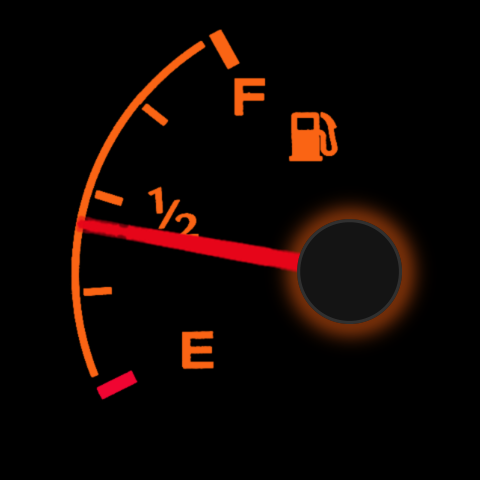
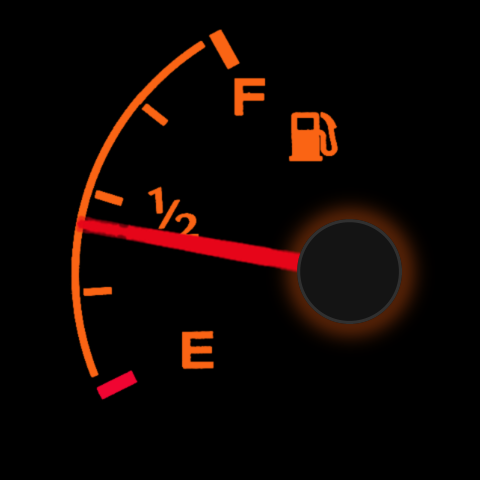
Night halo brightness -30% (peak opacity 0.315)

Changed region(s): [[0.5938, 0.4375, 0.875, 0.7188]]

diff --git a/docs/PLAN.md b/docs/PLAN.md
@@ -23,7 +23,7 @@ Status: Phase 0 (discovery). Prepared 2026-10-12. Rev 2: decisions log added (se
 | 2026-10-14 | The cluster can't be scanned non-destructively. v2 faces and overlay rebuilt from needle-free photos with geometric rectification (section 4.2d). |
 | 2026-10-14 | Frame leveled: rotated 2.17° CCW. Printed text (RPMX1000, FUEL DOOR, MPH, km/h, TYPE AC, MI) measured 2.05–2.30° clockwise; it now reads 0.0°. Dial sweeps are within 0.5° of symmetric about vertical. Tach 0 tick rebuilt from the 1000 rpm tick (the knob post hid its end); the stop-pin mask by the 8 was tightened. |
 | 2026-10-14 | Odometer goes digital (owner): the drum module is too large to keep (rear photos IMG_7579/7580/7582). Odometer is drawn in the bottom of the speedo face, trip meter where FUEL DOOR is printed on the tach. Exact stock text placement is not required. Speedo must stay stock size; the tach may shrink slightly. The white rear body will be trimmed to take the screens. |
-| 2026-10-14 | Night mode (owner, revised): palette from the owner's stock-cluster night photo, stored in `art/night_palette.json`. White printing becomes orange RGB 250,100,20. The km/h scale and cold tick become blue 20,170,240. Needle-orange ticks and digits (tach 6500+, 7, 8, H tick, E tick) become red 240,5,50. Needles become red 230,5,25, replacing the earlier "needles unchanged". Applies to all four gauges. A slight hub halo (owner wants it even though stock has none): printing orange, from the hub edge to 1.65 hub radii (half the earlier width), peak opacity 0.45. Implementation: per-color A8 mask layers recolored at runtime. Preview: `tools/night/night_preview.py` -> `art/preview/night_mode_preview.png`, `art/preview/*_480_night.png`. The colors come from a compressed video frame with unknown white balance, so they are a starting point to tune on the real screens. |
+| 2026-10-14 | Night mode (owner, revised): palette from the owner's stock-cluster night photo, stored in `art/night_palette.json`. White printing becomes orange RGB 250,100,20. The km/h scale and cold tick become blue 20,170,240. Needle-orange ticks and digits (tach 6500+, 7, 8, H tick, E tick) become red 240,5,50. Needles become red 230,5,25, replacing the earlier "needles unchanged". Applies to all four gauges. A slight hub halo (owner wants it even though stock has none): printing orange, from the hub edge to 1.65 hub radii (half the earlier width), peak opacity 0.315 (30% below the earlier 0.45). Implementation: per-color A8 mask layers recolored at runtime. Preview: `tools/night/night_preview.py` -> `art/preview/night_mode_preview.png`, `art/preview/*_480_night.png`. The colors come from a compressed video frame with unknown white balance, so they are a starting point to tune on the real screens. |
 | 2026-10-14 | Owner: the cluster housing may be trimmed (there is clearance around the installed cluster). Only the visible areas must stay on the face. Owner prefers the off-the-shelf 86% speedo. Proposed off-the-shelf layout (`docs/layout/screen_layout_v3.png`, `tools/screen_layout_v3.py`): speedo Waveshare ESP32-P4-WIFI6-Touch-LCD-3.4C (115 x 115 mm, Ø87.6 visible, art at 0.86); tach 2.8" round ESP32-S3 board (Waveshare 2.8C or LilyGO T-RGB, Ø70.1 visible, art at 0.887); temp+fuel Waveshare ESP32-S3-Touch-LCD-5 (127.7 x 87.45 mm, full-size art). Speedo and tach move 6 mm right, temp/fuel 7 mm left; boards are 1.2–1.4 mm apart; all visible holes are 3 mm or more inside the face outline. The speedo glass corners extend about 3 mm past the top and bottom of the housing. The fuel-to-speedo hole gap grows from 6.3 to 26.7 mm (set by the 3.4C glass border). Unverified: the 2.8" board outline (assumed Ø95.86 round) and whether the 5" active area is centered on its board. |
 | 2026-10-14 | Owner removing all physical indicator lamps. Revised proposal (drawing `docs/layout/screen_layout_v2.png`): bare 4.0" speedo + bare 3.4" tach at full size (6.8 mm gap) + bare 5" for temp/fuel, with the temp/fuel holes and art moved 4.5 mm left (1 mm clear of the speedo). All three fit inside the cluster outline. Against an assumed 3 mm wall, the speedo is 1.6 mm over at the bottom and the 5" corner 1.7 mm over at the top left. Waveshare 4C/3.4C dev boards do not fit (square glass taller than the cluster), even with the tach moved 14 mm. Tach on 3.4" needs a second ESP32-P4. |
 | 2026-10-14 | Screen layout PROPOSED (section 4.2e): 4.0" round 720x720 speedo (ESP32-P4), 2.8" round 480x480 tach at about 89% art scale (ESP32-S3), one 5" 800x480 behind temp+fuel (ESP32-S3). Three display boards plus the hub. Pending owner approval. |
